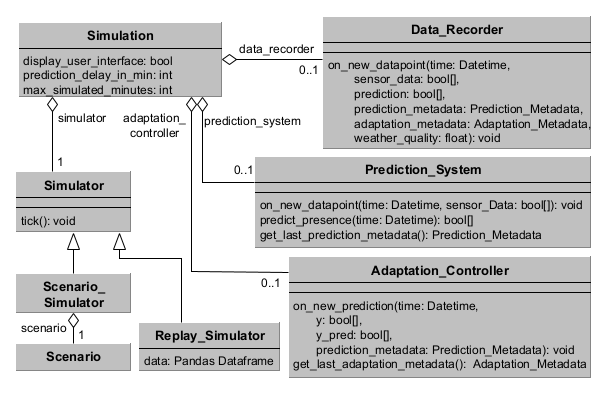
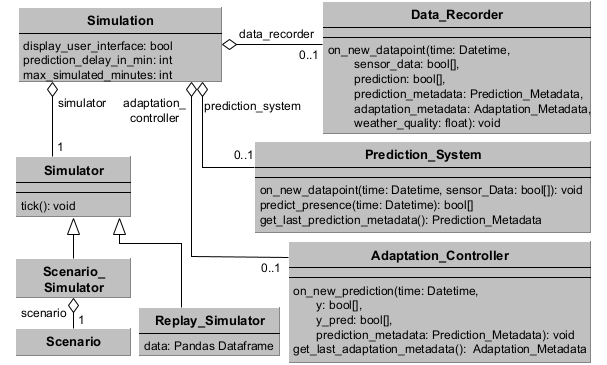
feat: added documentation and improved images

Changed region(s): [[0.0, 0.0, 0.9786, 0.9945], [0.0297, 0.5123, 0.2965, 0.663], [0.0297, 0.3918, 0.2076, 0.4822]]

diff --git a/documentation/simulation_visualization.md b/documentation/simulation_visualization.md
@@ -1,0 +1,32 @@
+# Visualization
+
+This file documents the visual interface of the visualization. The main purpose of the visualization is to observe and debug scenarios. Since the visualization slows down the calculation, it is recommended to not have it active while recording datasets.
+
+In this file, we give on overview of how to activate the visualization and how to read it.
+
+# Starting the visualization
+The visualization is started via the attribute *display_user_interface* of the simulation. By setting it to $True$ the visualization can be started.
+
+An example for how to configure this is given in the following source code: 
+````
+scenario = create_simple_scenario()
+simulation = Simulation(display_user_interface = True)
+scenario_simulator = Scenario_Simulator(scenario, simulation) 
+simulation.set_simulator(scenario_simulator)
+simulation.start()
+````
+
+The source code is based on the simple scenario (located in folder *examples/simple_scenario*). It loads the simple scenario and runs a simulation to visualize it.
+
+# Reading the visualization
+An example screenshot of the visualization of the simple scenario (located in folder *examples/simple_scenario*) is depicted in the image below. 
+
+![](../images/simple_scenario_example.png)
+
+The background image of the room blueprint is scenario-specfic and needs to be supplied as an image via the simulator. Overlayed over the image, the visualization draws the graph of rooms and transitions in blue. The coordinates of the room are taken from the respective room objects.
+
+Persons are tracked as colored dots and drawn underneith the room they reside in. Predicted presence is drawn above each room as a yellow dot. In the example above, there is one person in the office and one in Bedroom 2, while occupancy is predicted within Office, Bedroom 2, living room and Bedroom 1.
+
+Simulation information and control is displayed above the blueprint. In the top left corner, the visualization draws the current date and time. The top right corner contains speed controls, with the ability to speed up, slow down and pause the simulation.
+
+
